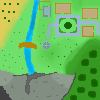
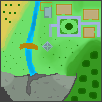
A21 random eggs + map 3

diff --git a/2900/A21/game.js b/2900/A21/game.js
@@ -55,6 +55,7 @@ const BACKGROUND_COLOR = 0x827ca6
 const EMPTY_COLOR = PS.COLOR_WHITE
 const WALL_COLOR = PS.COLOR_BLACK
 const EGG_COLOR = 255
+const RANDOM_EGG_COLOR = 16711900
 const SPEED_COLOR = 16711680
 const RADAR_COLOR = 16756224
 const ORIGINAL_PLAYER_COLOR = 5046016
@@ -90,13 +91,19 @@ var secondsPlayed = 0;
 
 var inLevelSelect = true;
 var currentLevelIndex = null;
-var levelCount = 2;
-var levelNames = ["Ol' Reliable Village", "Head in the Clouds"]
+var levelCount = 3;
+var levelNames = ["Ol' Reliable Village", "Head in the Clouds", "Sunken Ship Springs"]
 
 var beadData = Array.from(Array(levelCount), () => new Array(32*32).fill(0));
 var colisionData = Array.from(Array(levelCount), () => new Array(32*32).fill(0));
 var eggLocationsX = Array.from(Array(levelCount), () => new Array(EGG_MAX));
 var eggLocationsY = Array.from(Array(levelCount), () => new Array(EGG_MAX));
+
+var randomEggsX = Array.from(Array(levelCount), () => new Array(300));
+var randomEggsY = Array.from(Array(levelCount), () => new Array(300));
+var randomEggCounts = Array(levelCount).fill(0);
+
+var useRandomEggs = true;
 
 var eggsX = Array(EGG_MAX).fill(0);
 var eggsY = Array(EGG_MAX).fill(0);
@@ -186,12 +193,24 @@ function initWorld(){
 		}
 	}
 	//spawn new eggs
-	for (let i = 0; i < EGG_MAX; i++){
-		//PS.debug("new egg: " + i + "\n")
-		eggsX[i] = eggLocationsX[currentLevelIndex][i]
-		eggsY[i] = eggLocationsY[currentLevelIndex][i]
-		setColisionData(eggsX[i], eggsY[i], EGG_COLOR, currentLevelIndex);
+	if (useRandomEggs){
+		var indexs = getRandomIndexs(EGG_MAX, randomEggCounts[currentLevelIndex])
+		for (let i = 0; i < EGG_MAX; i++){
+			//PS.debug("new egg: " + i + "\n")
+			eggsX[i] = randomEggsX[currentLevelIndex][indexs[i]]
+			eggsY[i] = randomEggsY[currentLevelIndex][indexs[i]]
+			setColisionData(eggsX[i], eggsY[i], EGG_COLOR, currentLevelIndex);
+			//PS.debug("Egg " + i +" at: " + eggsX[i] + ", " + eggsY[i] + "\n")
+		}
+	}else{
+		for (let i = 0; i < EGG_MAX; i++){
+			//PS.debug("new egg: " + i + "\n")
+			eggsX[i] = eggLocationsX[currentLevelIndex][i]
+			eggsY[i] = eggLocationsY[currentLevelIndex][i]
+			setColisionData(eggsX[i], eggsY[i], EGG_COLOR, currentLevelIndex);
+		}
 	}
+
 	playerX = playerStartX[currentLevelIndex];
 	playerY = playerStartY[currentLevelIndex];
 	setPlayerPos(playerX, playerY);
@@ -203,6 +222,19 @@ function initWorld(){
 	//PS.debug("timer started...")
 
 }
+
+function getRandomIndexs(n, max){
+	var arr = Array(n);
+	for (var i = 0; i < n; i++) {
+		var r = Math.floor(Math.random() * max)
+		while (arr.includes(r)){
+			r = Math.floor(Math.random() * max);
+		}
+		arr[i] = r;
+	}
+	return arr;
+}
+
 function onTick(){
 	//Move player if they have a velocity
 	//PS.debug("timer running...")
@@ -276,7 +308,7 @@ function initLevels(index){
 	//PS.alpha(PS.ALL, PS.ALL, 0);
 
 	collisionLoader = function ( imageData ) {
-		var x, y, ptr, color, eggs;
+		var x, y, ptr, color, eggs, randomEggs;
 
 		mapHeights[index] = imageData.height
 		mapWidths[index] = imageData.width
@@ -284,6 +316,7 @@ function initLevels(index){
 		colisionData[index] = Array(mapWidths[index]*mapHeights[index]).fill(PS.COLOR_WHITE);
 		ptr = 0; // init pointer into data array
 		eggs = 0;
+		randomEggs = 0;
 		for ( y = 0; y < mapHeights[index]; y += 1 ) {
 			for ( x = 0; x < mapWidths[index]; x += 1 ) {
 				color = imageData.data[ ptr ]; // get color
@@ -297,11 +330,17 @@ function initLevels(index){
 					eggLocationsY[index][eggs] = y;
 					eggs += 1;
 				}
+				if (color == RANDOM_EGG_COLOR || color == EGG_COLOR){
+					randomEggsX[index][randomEggs] = x;
+					randomEggsY[index][randomEggs] = y;
+					randomEggs += 1;
+				}
 				setColisionData(x, y, color, index);
 				//PS.data( x, y, color );*/
 				ptr += 1; // point to next value
 			}
 		}
+		randomEggCounts[index] = randomEggs;
 		PS.imageLoad( "images/map"+(index+1)+"_gfx.png", graphicsLoader, 1 );
 	}
 	graphicsLoader = function ( imageData ) {
